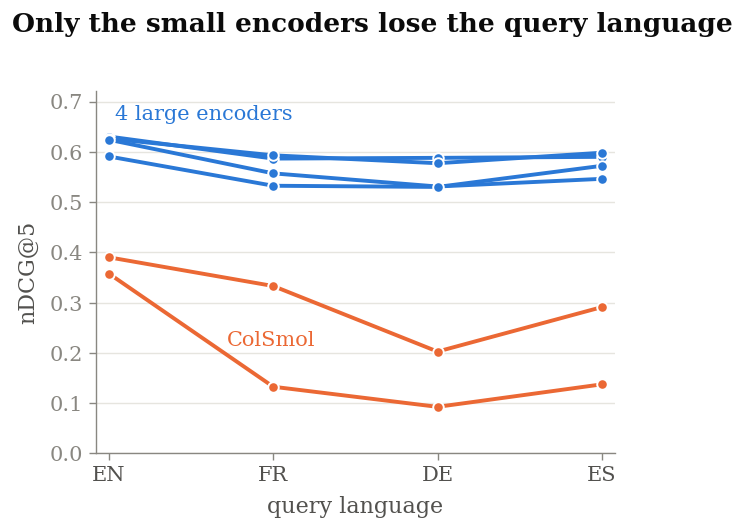
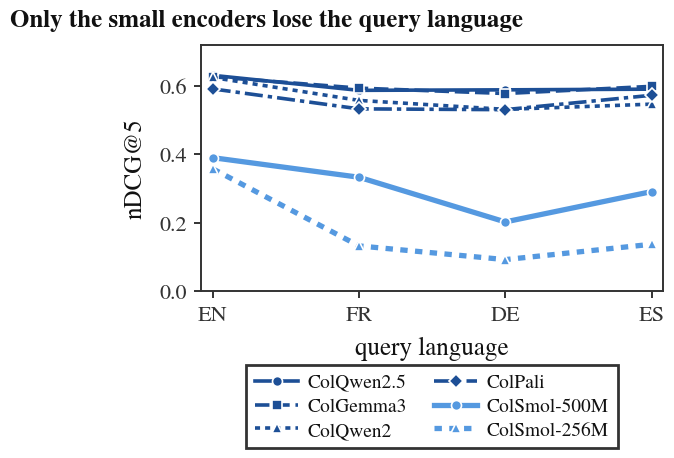
Rework the report figures and split quality from cost
The four figures are restyled on the MMORE paper's house style: closed
rectangular frame, no gridlines, TeX Gyre Termes so they share the body's
typeface rather than merely both being serif, and one hue plus neutrals
instead of two competing accents. Deep blue carries the four large encoders,
mid blue the two ColSmol — the same key in every figure — and the text
pipelines stay grey, since they are a reference and not a series.

Three defects went with it. The two text baselines used to be dashed vertical
lines; at 0.492 and 0.473 they overlapped and their shared label collided with
the bars, so they are bars below a gap now. The query-language chart had six
curves in two colours and a legend that showed four identical swatches, so line
style and marker now carry the identity. The heatmap's column headers were
clipped away by a fixed axes box that reserved no room above the plot.

quality_and_cost is split into retrieval_quality and retrieval_cost: two
single-column figures sit in a two-column layout without the placement
constraints a full-width float imposes.

diff --git a/scripts/make_figures.py b/scripts/make_figures.py
@@ -37,14 +37,26 @@ LABELS = {
     "colsmol_256m": "ColSmol-256M",
 }
 SMALL = {"colsmol_256m", "colsmol_500m"}
+# Colour splits the two families; within a family the models share a hue, so
+# line style and marker carry the identity. Without this a six-entry legend
+# shows four identical blue swatches and names nothing.
+DASHES = {
+    "colqwen2_5_v0_2": (None, "o"),
+    "colgemma3_colnetra": ((0, (4, 1.6)), "s"),
+    "colqwen2_v1_0": ((0, (1.4, 1.4)), "^"),
+    "colpali_v1_3": ((0, (5, 1.4, 1.2, 1.4)), "D"),
+    "colsmol_500m": (None, "o"),
+    "colsmol_256m": ((0, (1.4, 1.4)), "^"),
+}
 LANG_LABELS = {"en": "EN", "fr": "FR", "zh": "ZH", "de": "DE", "es": "ES"}
 VIDORE_LANG_LABELS = {"english": "EN", "french": "FR", "german": "DE", "spanish": "ES"}
 
-# The same figures serve two documents in two languages: the French report
-# (vector PDF) and the English README (raster PNG). Every string a reader sees
-# goes through t(), and every number through num(), which switches the decimal
-# separator with it. Rendering happens once per language, see main().
-LANG = "fr"
+# The figures are rendered in English for BOTH outputs, on purpose: the same
+# files are embedded in the French report and in the English README, and the
+# report's eventual English translation will not regenerate them. Keeping one
+# English set means no figure ever contradicts the document around it. The
+# French strings are kept below in case that decision is revisited.
+LANG = "en"
 STRINGS = {
     "quality": {"fr": "(a) Qualité de recherche", "en": "(a) Retrieval quality"},
     "cost": {"fr": "(b) Coût d'une requête", "en": "(b) Cost of one query"},
@@ -65,44 +77,58 @@ def num(value: float, digits: int) -> str:
     out = f"{value:.{digits}f}"
     return out.replace(".", ",") if LANG == "fr" else out
 
-# Light-surface values from the reference palette; slots 1 and 2 clear every
-# all-pairs gate (worst CVD dE 24.7, normal-vision 33.6).
-BLUE = "#2a78d6"
-BLUE_SOFT = "#9ec5f4"
-ORANGE = "#eb6834"
-ORANGE_SOFT = "#f5b79c"
-INK = "#0b0b0b"
-INK_2 = "#52514e"
-MUTED = "#898781"
+# Calqué sur les figures du papier MMORE (report/examples/) : une seule teinte
+# d'accent et des neutres, plutôt qu'une opposition de deux couleurs vives. Les
+# six encodeurs portent l'orange — teinte pleine pour les quatre gros, teinte
+# claire pour les deux ColSmol — et les pipelines textuels, qui sont une
+# référence et non une série, restent en gris.
+ACCENT = "#1d4f96"
+ACCENT_SOFT = "#5599e0"
+DARK = "#2f2f2f"
+INK = "#111111"
+INK_2 = "#333333"
+MUTED = "#5a5a5a"
+REF = "#7d7b76"
+REF_SOFT = "#d7d5cf"
 GRID = "#e6e5df"
-SEQ = ["#eef5fe", "#cde2fb", "#b7d3f6", "#9ec5f4", "#86b6ef", "#6da7ec",
-       "#5598e7", "#3987e5", "#2a78d6", "#256abf", "#1c5cab", "#184f95"]
+# Rampe séquentielle sur la même teinte, clair -> foncé.
+SEQ = ["#eff5fd", "#dde9fa", "#c9dcf6", "#b4cef2", "#9ec0ee", "#88b2e9",
+       "#72a4e4", "#5c96de", "#4784cd", "#3671b8", "#2960a6", "#1d4f96"]
 
+# Les six encodeurs partagent une teinte : le style de trait et le marqueur
+# portent l'identité. Sans cela une légende de six entrées montre quatre
+# pastilles identiques et ne nomme rien.
 plt.rcParams.update({
-    # Serif, to sit with the report's Times body text.
+    # TeX Gyre Termes is the Times clone newtxtext sets the body in, so the
+    # figures and the text share one typeface instead of merely both being
+    # serif. Math (the @ in nDCG@5, subscripts) follows with the STIX set.
     "font.family": "serif",
-    "font.serif": ["DejaVu Serif"],
-    "font.size": 8,
-    "axes.labelsize": 8,
-    "axes.titlesize": 8.5,
-    "xtick.labelsize": 7.5,
-    "ytick.labelsize": 7.5,
-    "axes.labelcolor": INK_2,
+    "font.serif": ["TeX Gyre Termes", "Nimbus Roman", "Liberation Serif"],
+    "mathtext.fontset": "stix",
+    "font.size": 9,
+    "axes.labelsize": 9,
+    "axes.titlesize": 9,
+    "xtick.labelsize": 8,
+    "ytick.labelsize": 8,
+    "axes.labelcolor": INK,
     "text.color": INK,
-    "xtick.color": MUTED,
-    "ytick.color": MUTED,
-    "grid.color": GRID,
-    "grid.linewidth": 0.5,
-    "axes.linewidth": 0.5,
+    "xtick.color": INK_2,
+    "ytick.color": INK_2,
+    "axes.edgecolor": INK_2,
+    "axes.linewidth": 0.7,
+    "legend.frameon": True,
+    "legend.edgecolor": INK_2,
+    "legend.facecolor": "white",
+    "legend.framealpha": 1.0,
+    "legend.fancybox": False,
     "figure.facecolor": "white",
     "savefig.facecolor": "white",
 })
 
 
 def colour(model: str, *, soft: bool = False) -> str:
-    if soft:
-        return ORANGE_SOFT if model in SMALL else BLUE_SOFT
-    return ORANGE if model in SMALL else BLUE
+    """Full accent for the four large encoders, a tint for the two ColSmol."""
+    return ACCENT_SOFT if model in SMALL else ACCENT
 
 
 def record(path: Path) -> dict:
@@ -116,96 +142,121 @@ def per_query_s(path: Path) -> float:
 
 
 def bare(ax, *, grid_axis: str | None = "y", keep=("left", "bottom")) -> None:
-    """Strip the frame down to the axes that carry meaning."""
+    """Closed rectangular frame, no gridlines — the house style of the MMORE
+    paper this report is set against. `grid_axis` and `keep` are accepted and
+    ignored so the call sites read the same."""
     ax.set_axisbelow(True)
-    if grid_axis:
-        ax.grid(True, axis=grid_axis, linewidth=0.5, color=GRID)
+    ax.grid(False)
     for side in ("top", "right", "left", "bottom"):
-        ax.spines[side].set_visible(side in keep)
-    for side in keep:
-        ax.spines[side].set_color(MUTED)
-    ax.tick_params(length=2.5, width=0.5, pad=2)
+        ax.spines[side].set_visible(True)
+        ax.spines[side].set_color(INK_2)
+        ax.spines[side].set_linewidth(0.7)
+    ax.tick_params(length=2.6, width=0.7, pad=2.5, direction="out",
+                   top=False, right=False)
 
 
-def save(fig, stem: str, title: str) -> None:
-    if LANG == "fr":
-        # The report names its figures in a LaTeX caption, so no title here.
-        PDF_DIR.mkdir(parents=True, exist_ok=True)
-        fig.savefig(PDF_DIR / f"{stem}.pdf", bbox_inches="tight", pad_inches=0.02)
-        written = f"{stem}.pdf"
+def save(fig, stem: str, title: str, *, box: dict | None = None) -> None:
+    """`box` is kept for figures whose labels sit outside the axes (the heatmap
+    puts its column headers on top), but every output is cropped to its own
+    content: with \centering and width=\columnwidth a tightly cropped figure
+    fills the column exactly, so it is centred by construction. A shared axes
+    rectangle was tried and abandoned — it aligned the plots with each other but
+    left figures with short labels visibly off-centre in the column."""
+    PDF_DIR.mkdir(parents=True, exist_ok=True)
+    PNG_DIR.mkdir(parents=True, exist_ok=True)
+    if box:
+        fig.subplots_adjust(**box)
     else:
-        # The PNG stands alone in the README, with no caption to name it.
-        PNG_DIR.mkdir(parents=True, exist_ok=True)
-        fig.suptitle(title, fontsize=9.5, fontweight="bold", color=INK,
-                     x=0.0, y=1.05, ha="left")
-        fig.savefig(PNG_DIR / f"{stem}.png", dpi=200, bbox_inches="tight",
-                    pad_inches=0.06)
-        written = f"{stem}.png"
+        fig.tight_layout(pad=0.3)
+    # The report names its figures in a LaTeX caption, so the PDF carries none.
+    fig.savefig(PDF_DIR / f"{stem}.pdf", bbox_inches="tight", pad_inches=0.02)
+    # The PNG stands alone in the README, so it keeps its headline and is
+    # cropped to fit it. The fixed box above exists only to align the figures
+    # stacked in the report's columns, which carry LaTeX captions instead.
+    fig.suptitle(title, fontsize=9, fontweight="bold", color=INK,
+                 x=0.0, y=1.04, ha="left")
+    fig.savefig(PNG_DIR / f"{stem}.png", dpi=200, bbox_inches="tight",
+                pad_inches=0.05)
     plt.close(fig)
-    print(f"wrote {written}")
+    print(f"wrote {stem}.pdf / {stem}.png")
 
 
 # --- Figure 1: quality and cost on the biomedical lecture corpus -------------
 
 
-def fig_quality_and_cost() -> None:
+def fig_retrieval_quality() -> None:
     scores = {m: ndcg5(RESULTS / "track_a" / m / "full" / "seed_0.json") for m in MODELS}
-    costs = {m: per_query_s(RESULTS / "track_a" / m / "full" / "seed_0.json") for m in MODELS}
     text = {label: ndcg5(RESULTS / d / "A" / "vidore" / "seed_0.json")
             for d, label in BASELINES.items()}
 
-    fig, (ax1, ax2) = plt.subplots(1, 2, figsize=(6.7, 2.45),
-                                   gridspec_kw={"width_ratios": [1.05, 1]})
+    fig, ax = plt.subplots(figsize=(3.35, 2.35))
 
-    # (a) horizontal bars: names read left-to-right, no rotated tick labels.
+    # Horizontal bars: names read left-to-right, no rotated tick labels. The two
+    # text pipelines used to be dashed vertical lines; at 0.492 and 0.473 they
+    # landed on top of each other and their shared label collided with the bars,
+    # so they are drawn as two gray bars below a gap instead — same comparison,
+    # read off the same axis, no overlap possible.
     order = sorted(scores, key=lambda m: scores[m])
-    ys = range(len(order))
-    ax1.barh(ys, [scores[m] for m in order], height=0.58,
-             color=[colour(m) for m in order], zorder=3)
-    for y, m in zip(ys, order):
-        ax1.text(scores[m] + 0.012, y, num(scores[m], 3), va="center",
-                 fontsize=7.5, color=INK_2, zorder=5,
-                 bbox=dict(facecolor="white", edgecolor="none", pad=0.8))
-    for label, value in text.items():
-        ax1.axvline(value, color=MUTED, linewidth=0.9, linestyle=(0, (3, 2.5)), zorder=2)
-    ax1.text(max(text.values()) + 0.012, -0.95,
-             "  ·  ".join(f"{label} {num(value, 3)}"
-                          for label, value in sorted(text.items(), key=lambda kv: -kv[1])),
-             fontsize=6.8, color=MUTED, va="center")
-    ax1.set_yticks(list(ys))
-    ax1.set_yticklabels([LABELS[m] for m in order], color=INK_2)
-    ax1.set_ylim(-1.5, len(order) - 0.4)
-    ax1.set_xlim(0, 0.72)
-    ax1.set_xlabel("nDCG@5")
-    ax1.set_title(t("quality"), loc="left", color=INK, pad=6)
-    bare(ax1, grid_axis="x", keep=("left",))
+    refs = sorted(text.items(), key=lambda kv: kv[1])
+    gap = 0.9
+    ys_models = [i + len(refs) + gap for i in range(len(order))]
+    ys_refs = list(range(len(refs)))
 
-    # (b) the same six models, quality against what a query costs.
+    ax.barh(ys_models, [scores[m] for m in order], height=0.62,
+            color=[colour(m) for m in order], zorder=3)
+    ax.barh(ys_refs, [v for _, v in refs], height=0.62,
+            color=REF_SOFT, edgecolor=REF, linewidth=0.6, zorder=3)
+
+    for y, value in zip(ys_models, [scores[m] for m in order]):
+        ax.text(value + 0.012, y, num(value, 3), va="center",
+                fontsize=8, color=INK_2, zorder=5)
+    for y, (_, value) in zip(ys_refs, refs):
+        ax.text(value + 0.012, y, num(value, 3), va="center",
+                fontsize=8, color=REF, zorder=5)
+
+    ax.set_yticks(ys_refs + ys_models)
+    ax.set_yticklabels([lab for lab, _ in refs] + [LABELS[m] for m in order],
+                       color=INK_2)
+    for label in ax.get_yticklabels()[:len(refs)]:
+        label.set_style("italic")
+        label.set_color(REF)
+    ax.set_ylim(-0.7, len(order) + len(refs) + gap - 0.4)
+    ax.set_xlim(0, 0.72)
+    ax.set_xlabel("nDCG@5")
+    bare(ax, grid_axis="x", keep=("left",))
+
+    save(fig, "retrieval_quality",
+         "Four of six visual encoders beat text retrieval")
+
+
+def fig_retrieval_cost() -> None:
+    scores = {m: ndcg5(RESULTS / "track_a" / m / "full" / "seed_0.json") for m in MODELS}
+    costs = {m: per_query_s(RESULTS / "track_a" / m / "full" / "seed_0.json") for m in MODELS}
+
+    fig, ax = plt.subplots(figsize=(3.35, 1.95))
     offsets = {
         "colgemma3_colnetra": ((0, 10), "center"),
         "colpali_v1_3": ((0, -12), "center"),
-        "colqwen2_v1_0": ((-6, 9), "center"),
-        "colqwen2_5_v0_2": ((8, 1), "left"),
+        "colqwen2_v1_0": ((-2, 10), "center"),
+        "colqwen2_5_v0_2": ((0, -11), "center"),
         "colsmol_500m": ((-7, 0), "right"),
-        "colsmol_256m": ((7, 0), "left"),
+        "colsmol_256m": ((-7, 0), "right"),
     }
     for m in MODELS:
         offset, ha = offsets[m]
-        ax2.scatter(costs[m], scores[m], s=40, color=colour(m), zorder=3,
-                    edgecolor="white", linewidth=0.9)
-        ax2.annotate(LABELS[m], (costs[m], scores[m]), textcoords="offset points",
-                     xytext=offset, ha=ha, va="center", fontsize=7, color=INK_2)
+        ax.scatter(costs[m], scores[m], s=40, color=colour(m), zorder=3,
+                   edgecolor="white", linewidth=0.9)
+        ax.annotate(LABELS[m], (costs[m], scores[m]), textcoords="offset points",
+                    xytext=offset, ha=ha, va="center", fontsize=7.5, color=INK_2)
     span = max(costs.values()) - min(costs.values())
-    ax2.set_xlim(min(costs.values()) - 0.16 * span, max(costs.values()) + 0.44 * span)
-    ax2.set_ylim(0.30, 0.72)
-    ax2.set_xlabel(t("cost_axis"))
-    ax2.set_ylabel("nDCG@5")
-    ax2.set_title(t("cost"), loc="left", color=INK, pad=6)
-    bare(ax2, grid_axis="both")
+    ax.set_xlim(min(costs.values()) - 0.22 * span, max(costs.values()) + 0.12 * span)
+    ax.set_ylim(0.30, 0.74)
+    ax.set_xlabel(t("cost_axis"))
+    ax.set_ylabel("nDCG@5")
+    bare(ax, grid_axis="both")
 
-    fig.tight_layout(w_pad=2.4)
-    save(fig, "quality_and_cost",
-         "Four of six visual encoders beat text retrieval — at four times the cost spread")
+    save(fig, "retrieval_cost",
+         "Cost per query spreads four-fold, and not by model size")
 
 
 # --- Figure 2: query language, index unchanged -------------------------------
@@ -219,11 +270,22 @@ def fig_query_language() -> None:
             ndcg5(RESULTS / "track_b_vidore" / m / lang / "seed_0.json")
             for lang in VIDORE_LANGS
         ]
-        ax.plot(range(len(steps)), ys, marker="o", markersize=3.8, linewidth=1.4,
+        dash, marker = DASHES[m]
+        # One reading key across every figure: the ColSmol pair always wears the
+        # light tint. A tint is fainter than the full accent at the same weight,
+        # so their lines are drawn thicker rather than recoloured.
+        ax.plot(range(len(steps)), ys, marker=marker, markersize=3.6,
+                linewidth=1.9 if m in SMALL else 1.3,
+                linestyle=dash if dash else "-",
                 color=colour(m), zorder=3, markeredgecolor="white",
-                markeredgewidth=0.7, clip_on=False)
-    ax.annotate(t("big_four"), (0.04, 0.665), fontsize=7.5, color=BLUE)
-    ax.annotate(t("colsmol"), (0.72, 0.215), fontsize=7.5, color=ORANGE)
+                markeredgewidth=0.6, clip_on=False, label=LABELS[m])
+    # Six lines in two colours cannot be told apart by colour alone, so the
+    # group annotations are replaced by a real legend naming every model.
+    # Below the axes, centred: inside the frame the box sat on top of the
+    # ColSmol curves and hid the very data the figure is about.
+    ax.legend(loc="upper center", bbox_to_anchor=(0.5, -0.26), ncol=2,
+              handlelength=2.2, handletextpad=0.5, columnspacing=1.4,
+              fontsize=7, borderpad=0.45, labelspacing=0.32, labelcolor=INK)
     ax.set_xticks(range(len(steps)))
     ax.set_xticklabels([VIDORE_LANG_LABELS[s] for s in steps], color=INK_2)
     ax.set_xlim(-0.08, len(steps) - 0.92)
@@ -232,7 +294,8 @@ def fig_query_language() -> None:
     ax.set_xlabel(t("query_lang_axis"))
     bare(ax)
     save(fig, "query_language",
-         "Only the small encoders lose the query language")
+         "Only the small encoders lose the query language",
+         box=dict(left=0.285, right=0.975, top=0.965, bottom=0.44))
 
 
 # --- Figure 3: native-language corpora ---------------------------------------
@@ -241,8 +304,9 @@ def fig_query_language() -> None:
 def fig_multilingual_heatmap() -> None:
     rows = [(LABELS[m], [ndcg5(RESULTS / "track_b" / m / lang / "seed_0.json") for lang in LANGS])
             for m in MODELS]
+    # Same order as the bar chart and the metrics table: mmore first.
     rows += [(label, [ndcg5(RESULTS / d / "B" / lang / "seed_0.json") for lang in LANGS])
-             for d, label in BASELINES.items()]
+             for d, label in reversed(list(BASELINES.items()))]
     values = [r[1] for r in rows]
 
     cmap = matplotlib.colors.LinearSegmentedColormap.from_list("seq", SEQ)
@@ -258,7 +322,7 @@ def fig_multilingual_heatmap() -> None:
                                        edgecolor="white", linewidth=1.6, zorder=2))
             r, g, b, _ = cmap(norm(v))
             luminance = 0.2126 * r + 0.7152 * g + 0.0722 * b
-            ax.text(j, i, num(v, 2), ha="center", va="center", fontsize=7.2,
+            ax.text(j, i, num(v, 2), ha="center", va="center", fontsize=7.6,
                     zorder=3, color="white" if luminance < 0.45 else INK)
 
     ax.set_xticks(range(len(LANGS)))
@@ -277,15 +341,15 @@ def fig_multilingual_heatmap() -> None:
     ax.axhline(len(MODELS) - 0.5, color="white", linewidth=4.5, zorder=4)
 
     save(fig, "multilingual_heatmap",
-         "In all five languages the best encoder beats both text pipelines")
+         "In all five languages the best encoder beats both text pipelines",
+         box=dict(left=0.285, right=0.975, top=0.91, bottom=0.045))
 
 
 def main() -> None:
-    global LANG
-    for LANG in ("fr", "en"):
-        fig_quality_and_cost()
-        fig_query_language()
-        fig_multilingual_heatmap()
+    fig_retrieval_quality()
+    fig_retrieval_cost()
+    fig_query_language()
+    fig_multilingual_heatmap()
 
 
 if __name__ == "__main__":

diff --git a/README.md b/README.md
@@ -16,7 +16,9 @@ Academic project (Cassiopée), Télécom SudParis, run on EPFL LiGHT's Run:AI cl
 
 ## 1. With vision-grounded queries, visual retrieval wins — and cost, not quality, separates the leaders
 
-![Retrieval quality and cost on ViDoRe v2 biomedical lectures](assets/quality_and_cost.png)
+![Retrieval quality on ViDoRe v2 biomedical lectures](assets/retrieval_quality.png)
+
+![Retrieval cost per query on ViDoRe v2 biomedical lectures](assets/retrieval_cost.png)
 
 On [ViDoRe v2](https://huggingface.co/datasets/vidore) biomedical lectures — 1,016
 figure-rich pages, 160 queries written by a model *looking at the page* and then
